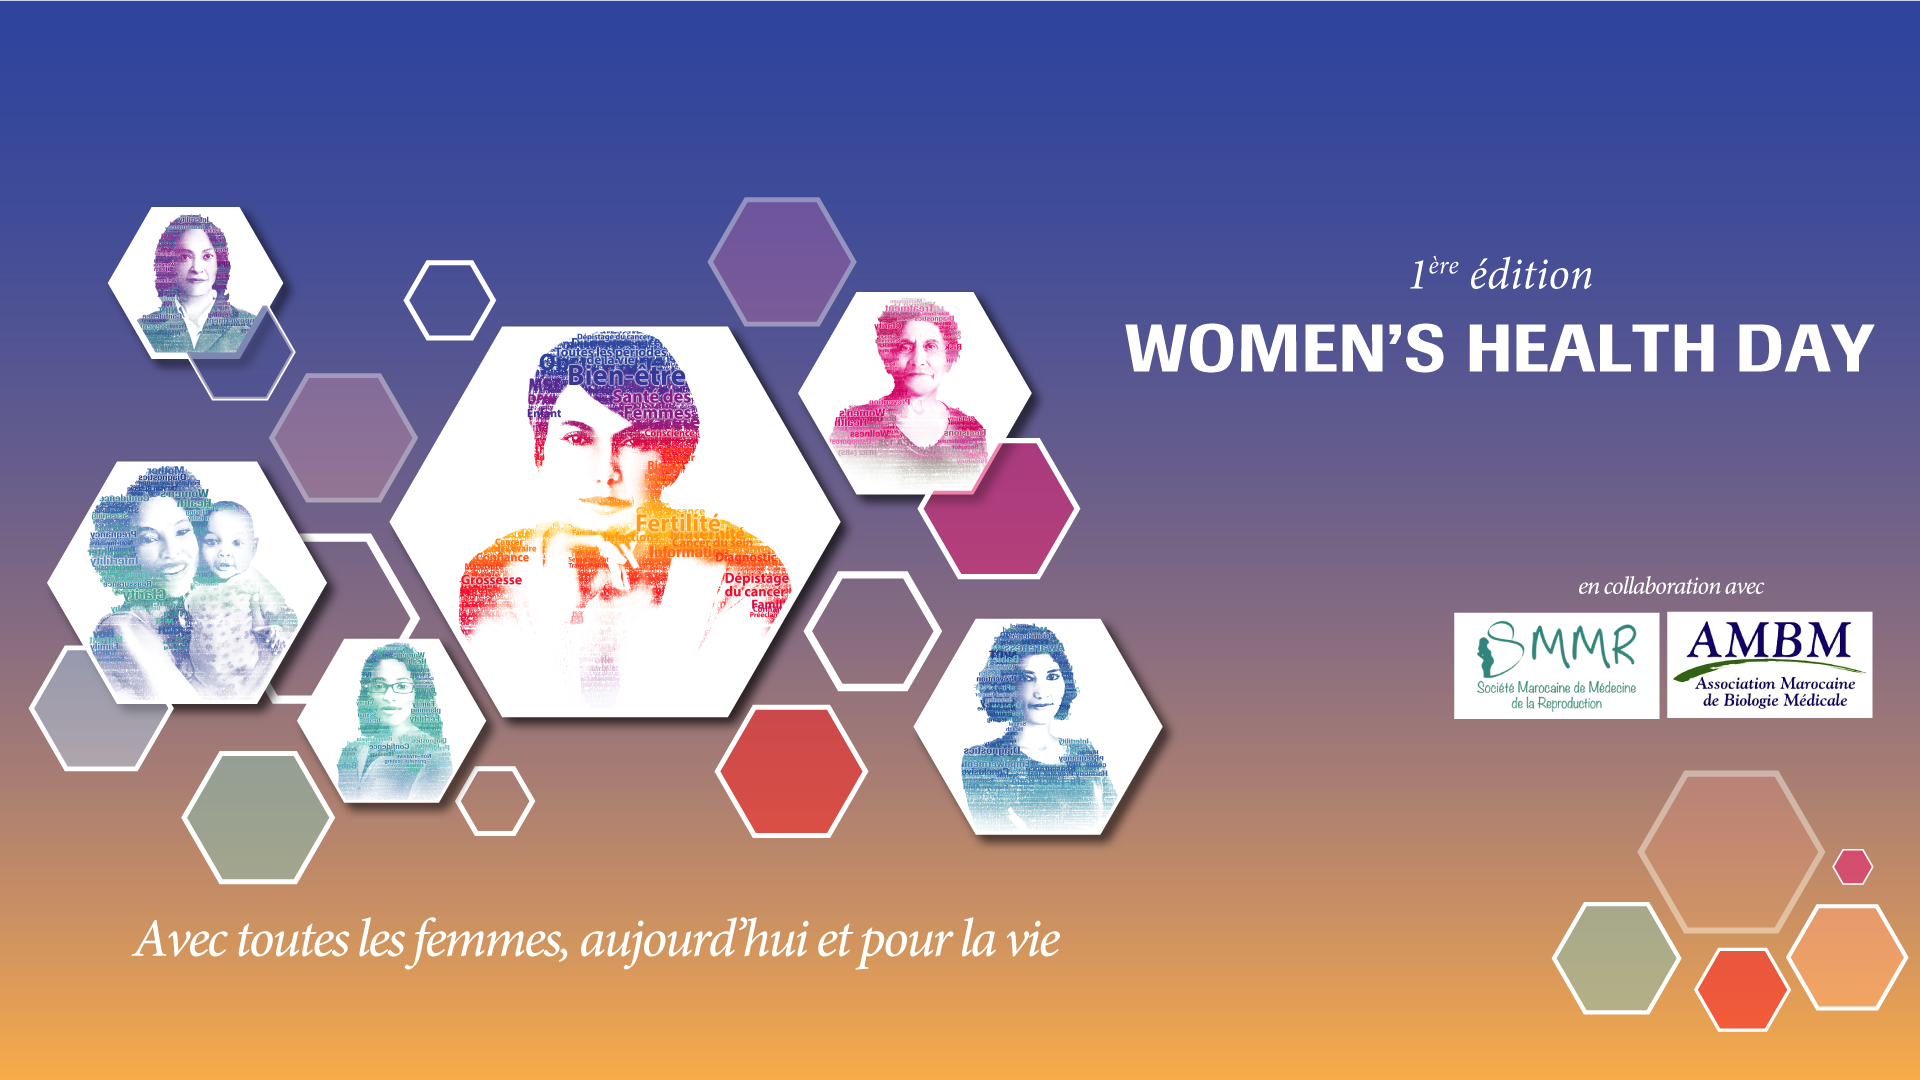
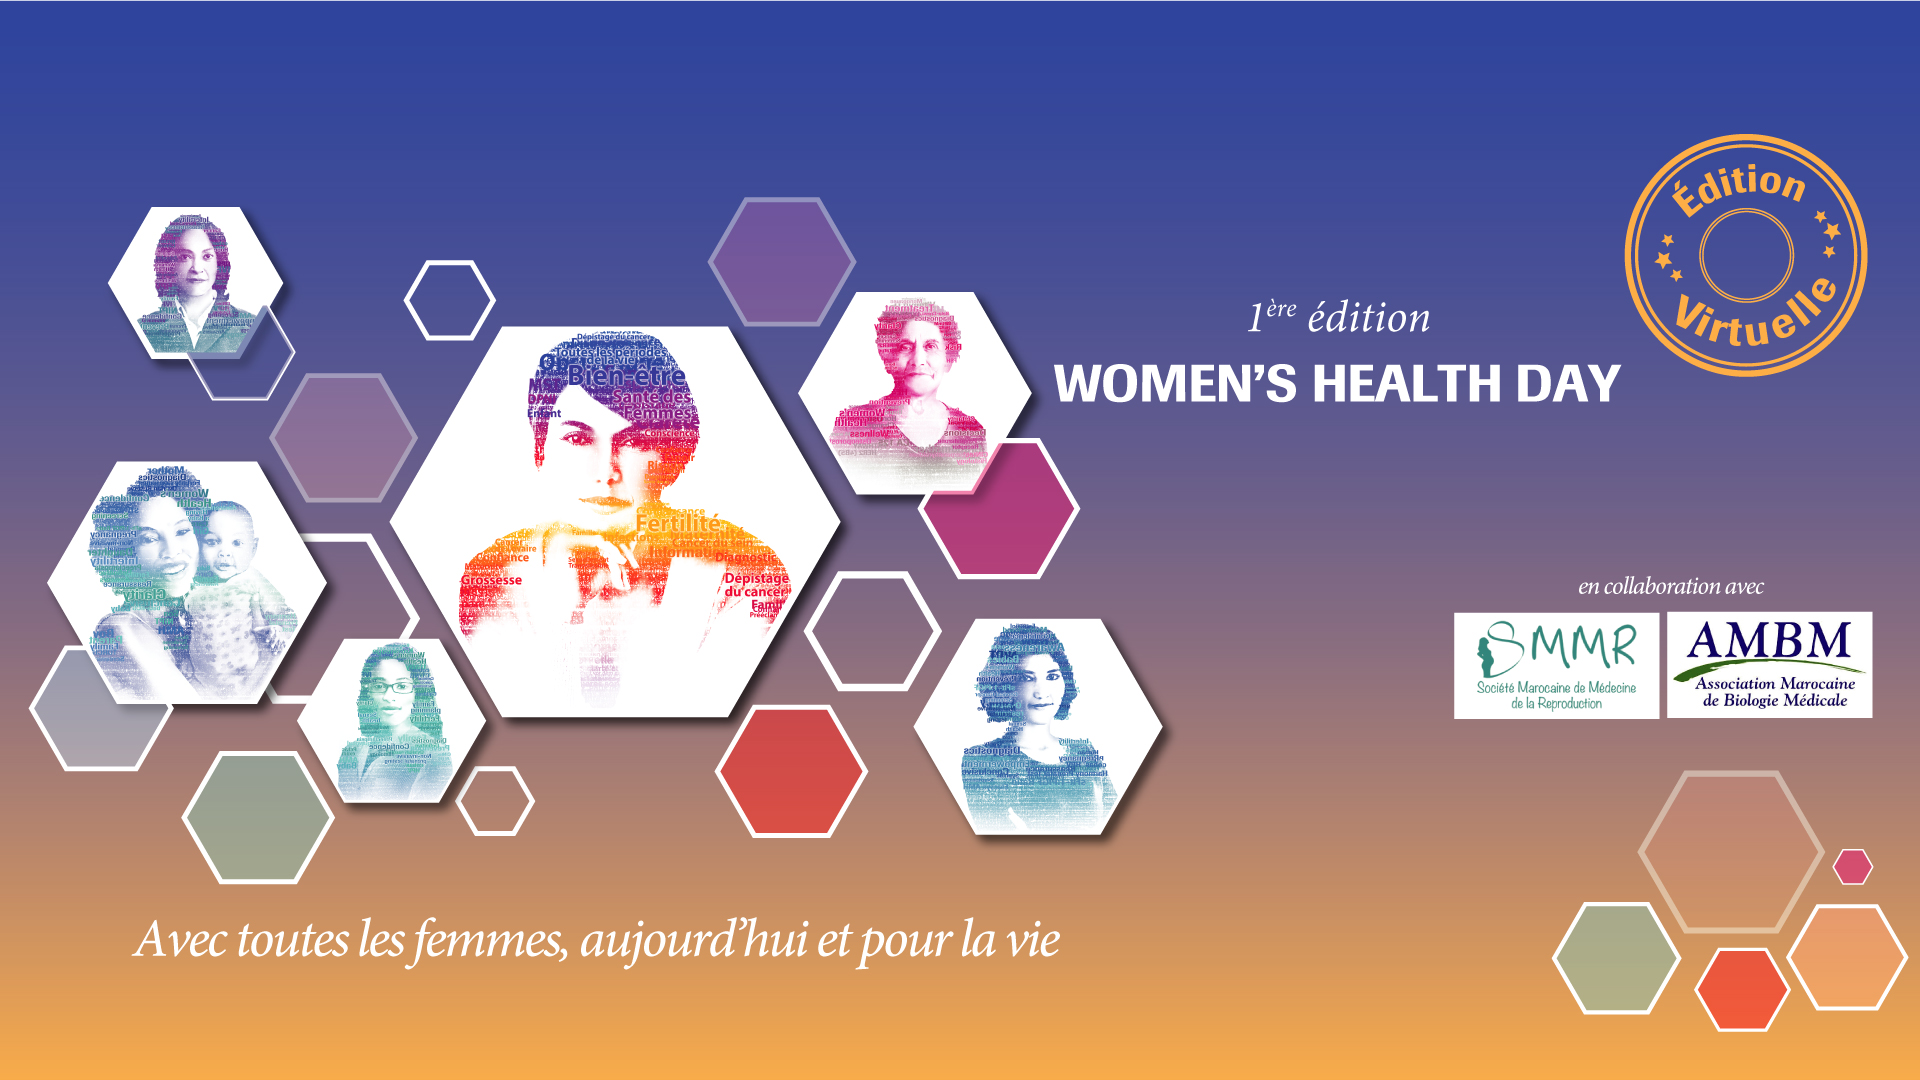
roche last add

Changed region(s): [[0.5312, 0.1222, 1.0, 0.3972]]

diff --git a/src/components/agenda.vue b/src/components/agenda.vue
@@ -26,18 +26,6 @@
                         </v-col>
                     </v-row>
                     </v-card-title>
-                    <v-card-text class="white text--primary">
-                    <v-row >
-                    <v-col lg="6">
-                    <h5>Dr Abdellatif Loudghiri</h5>
-                    <v-img src="..\assets\wdghiri.jpg" width="150"></v-img>
-                    </v-col>
-                    <v-col lg="6">
-                    <h5>Pr Omar Sefroui</h5>
-                    <v-img src="..\assets\sefroui.png" width="200"></v-img>
-                    </v-col>
-                    </v-row>
-                    </v-card-text>
                 </v-card>
                 </v-timeline-item>
                 <v-timeline-item color="#3F66A7" icon="fas fa-microphone">
@@ -93,7 +81,7 @@
                     </v-col>
                     <v-col class="textBody">
                     <h4>Dr Hicham El Attar</h4>
-                    <b>Médecin pathologiste laboratoire privé
+                    <b>Anatomo-Cyto-Pathologiste, laboratoire privé
                     </b>
                     </v-col>
                     </v-row>
@@ -127,7 +115,7 @@
                     </v-col>
                     <v-col class="textBody">
                     <h4>Pr Moncef Benkhalifa </h4>
-                    <b>Professeur à l’Université de Picardie Jules Verne
+                    <b>Professeur de médecine de la reproduction, biologie du développement et de la reproduction à l'Université Picardie Jules Verne, Amiens.
                     </b>
                     </v-col>
                     </v-row>
@@ -196,7 +184,7 @@
                     </v-col>
                     <v-col class="textBody">
                     <h4>Dr Elodie Lefranc</h4>
-                    <b>Professeur à l’Université de Picardie Jules Verne
+                    <b>Médecin Biologiste de la Reproduction (CBH) au CHU Amiens Picardie, site Sud
                     </b>
                     </v-col>
                     </v-row>
@@ -231,7 +219,7 @@
                     <v-col class="textBody">
                     <h4>Dr Badre Eddine Lmimouni</h4>
                     <b>Docteur en Pharmacie, Spécialiste en Biologie Médicale,
-                     Chef de service de Parasitologie et mycologie médicale à l'Hôpital Militaire d'Instruction<br> Mohammed V.
+                     Chef de service de Parasitologie et mycologie médicale à l'Hôpital Militaire d'Instruction<br> Mohammed V
                     </b>
                     </v-col>
                     </v-row>
@@ -254,7 +242,7 @@
                     <v-card :class="`rounded-r-xl`" color="#B5537F">17:45</v-card>
                     </div>
                     <div class="col-lg-9 col-sm-12 col-md-12">
-                    pré-éclampsie: sFlt-1, PlGf,sFlt-1/PlGf ratio et diagnostic
+                    Pré-éclampsie: sFlt-1, PlGf,sFlt-1/PlGf ratio et diagnostic
                     </div>
                     </v-row>
                     </v-card-title>
@@ -265,7 +253,7 @@
                     </v-col>
                     <v-col class="textBody">
                     <h4>Dr Noureddine Louanjli </h4>
-                    <b>Médecin biologiste au laboratoire LABOMAC et membre de la SMMR
+                    <b>Médecin biologiste au sein d'un laboratoire privé et membre de la SMMR
                     </b>
                     </v-col>
                     </v-row>
@@ -290,7 +278,7 @@
     </v-row>
     <v-row class="mt-2">
     <v-col align="center">
-    <a href="roche.png" download="roche.png">
+    <a href="https://drive.google.com/file/d/108WEGg9Seqt9gJQbrwfTufe8iuTAKOHq/view" target="_blank">
     <div class="programme"><b>Consultez le programme officiel</b></div>
     </a>
     </v-col>

diff --git a/src/components/inscription.vue b/src/components/inscription.vue
@@ -8,7 +8,10 @@
     </v-row>
     <v-row class="mt-10 mb-5">
     <v-col align="center">
-    <v-alert v-if="confirmed" text type="success">
+    <a href="https://womenshealthday.ascrea.ma/inscription.htm" type="button" class="insriBtn btn btn-lg" target="blank">
+        <v-icon class="mr-1" color="white">fas fa-sign-in-alt</v-icon><b style="color:white">Inscrivez-Vous ici</b>
+    </a>
+    <!--<v-alert v-if="confirmed" text type="success">
     Cher Docteur,<br>
     Vous êtes bien inscrit, veuillez vérifier votre boite Email pour le lien d’accès à la plateforme.
     </v-alert>
@@ -24,7 +27,38 @@
                 <v-icon class="mr-1">fas fa-sign-in-alt</v-icon><b style="color:white">Inscrivez-Vous ici</b>
                 </a>
             </template>
-            <v-card>
+            <v-card v-if="!this.type">
+                <v-card-title>
+                <span class="headline">Formulaire D'inscription</span>
+                </v-card-title>
+                <v-divider></v-divider>
+                <v-card-text>
+                <v-container>
+                    <v-row>
+                        <v-col align="center">
+                            <v-btn text color="primary" @click="selectType('prof')">
+                            Professionnels de la Santé
+                            </v-btn>
+                        </v-col>
+                        <v-col align="center">
+                            <v-btn text color="primary" @click="selectType('staff')">
+                            Staff Roche
+                            </v-btn>
+                        </v-col>
+                    </v-row>
+                </v-container>   
+                </v-card-text>
+                <v-card-actions>
+                <v-btn
+                    color="blue darken-1"
+                    text
+                    @click="ferme()"
+                >
+                    Fermer
+                </v-btn>
+                </v-card-actions>
+            </v-card>
+            <v-card v-else>
                 <v-card-title>
                 <span class="headline">Formulaire D'inscription</span>
                 </v-card-title>
@@ -83,7 +117,7 @@
                 <v-btn
                     color="blue darken-1"
                     text
-                    @click="dialog = false"
+                    @click="ferme()"
                 >
                     Fermer
                 </v-btn>
@@ -99,7 +133,7 @@
             </v-card>
             </v-dialog>
         </v-row>
-        </template>
+        </template>-->
     </v-col>
     </v-row>
     <v-row class="mt-10">
@@ -125,6 +159,7 @@ export default {
    data () {
       return {
         email:'',
+        type:'',
         nom:'',
         prenom:'',
         city:'',
@@ -398,6 +433,7 @@ export default {
                         name:this.nom+' '+this.prenom,
                         city:this.city,
                         country:this.select.name,
+                        type:this.type,
                     }
                     }).then(()=>{
                         this.confirmed = true
@@ -411,7 +447,21 @@ export default {
             this.nom = '' , 
             this.prenom = '' , 
             this.city = '' , 
+            this.type = '',
             this.select = { name: 'Morocco', code: 'MA' } 
+      },
+
+      ferme(){
+          this.dialog = false
+          this.email = '',
+            this.nom = '' , 
+            this.prenom = '' , 
+            this.city = '' , 
+            this.type = '',
+            this.select = { name: 'Morocco', code: 'MA' } 
+      },
+      selectType(type){
+          this.type = type
       }
     },
   }

diff --git a/src/components/propos.vue b/src/components/propos.vue
@@ -17,13 +17,13 @@
     </v-row> 
     <v-row color="blue">
       <v-col class="welcome_text" align="center">
-      ont le plaisir de vous inviter à l'évènement<br>
+      ont le plaisir de vous inviter à la première édition virtuelle <br>
       <b style="color:#0066CC">2021 WOMEN'S HEALTH DAY</b>
       </v-col>
     </v-row> 
     <v-row>
     <v-col class="welcome_text" align="center">
-    qui aura lieu le samedi 06 mars 2021 à partir de 14h00.
+    qui aura lieu le Samedi 06 Mars 2021 à partir de 14h00.
     </v-col>
     </v-row>
     <v-row>

diff --git a/src/components/accueil.vue b/src/components/accueil.vue
@@ -1,6 +1,6 @@
 <template>
   <div class="view" >
-        <v-img class="back"  src="..\assets\head2.jpg" aspect-ratio="1.7" max-height="626">
+        <v-img class="back"  src="..\assets\head.jpg" aspect-ratio="1.7" max-height="626">
          <v-row align="center">
           <v-col class="digit" align="center">
           <v-card class="agenda" color="rgb(181,83,127,0.4)">
